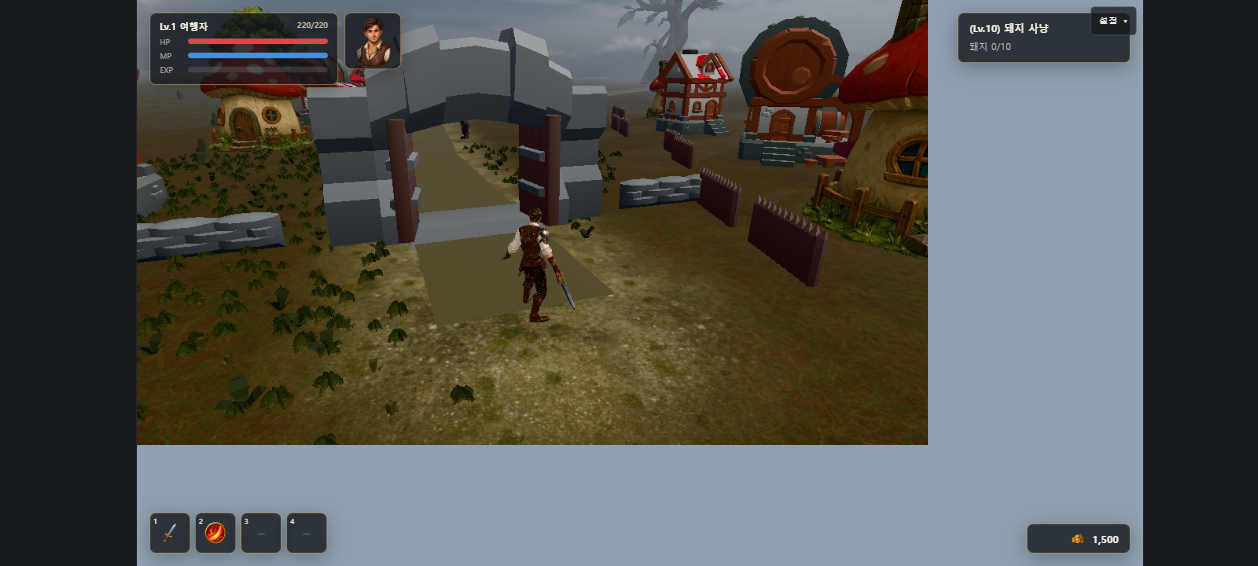
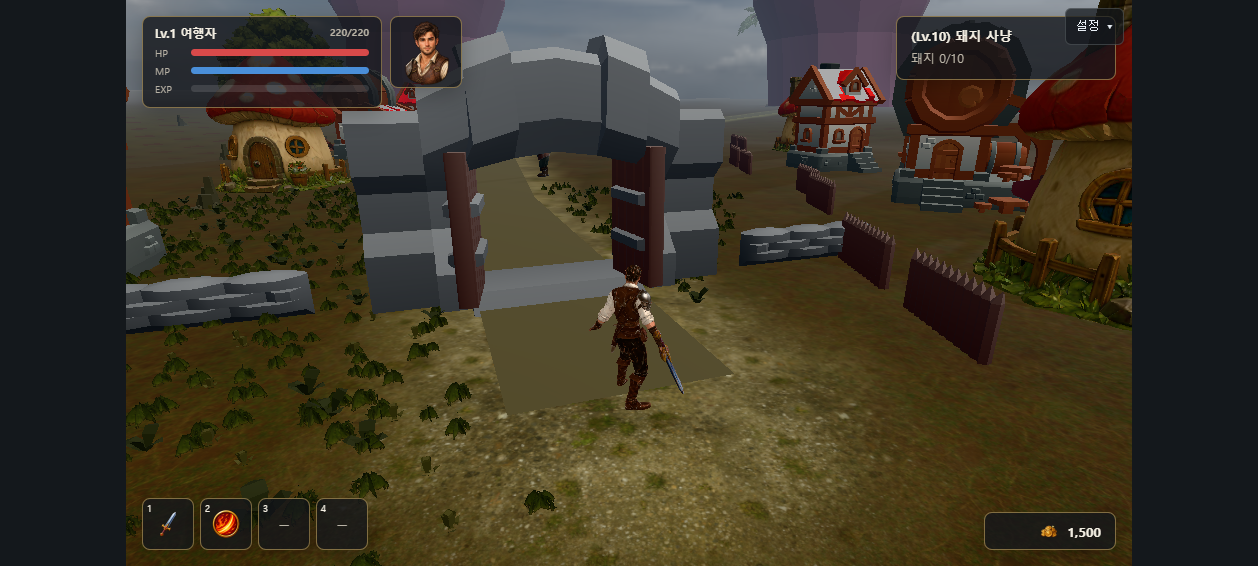
스테이지 창 맞춤: transform 대신 크기 클램프(useStageFit) — 캔버스/HUD 이중 축소 해소, 하단 스킬바·메소 표시 확인 (master)

diff --git a/src/App.tsx b/src/App.tsx
@@ -64,17 +64,20 @@ function VistaCamera({ id }: { id: string }) {
  * 매 프레임 depth 검증 에러·검은 프레임(R77-A 결함). 구 빌드는 로딩 ready 뒤에 Canvas 가 마운트되는 타이밍이라 1회였다.
  * 상세: Docs/decisions/webgpu-blackframe-r86.md
  */
-/** 창 안에 스테이지가 들어가도록 축소 배율(≤1). shot 모드·서버 렌더에서는 1. */
-function useStageFit(width: number, height: number, disabled: boolean): number {
-  const [fit, setFit] = useState(1)
+/** 창이 스테이지보다 작으면 스테이지 크기를 창에 맞춰 줄인다(확대 없음). CSS transform 은 R3F 리사이즈 측정과 이중 적용돼 쓰지 않는다. */
+function useStageFit(width: number, height: number, disabled: boolean): { width: number; height: number } {
+  const [size, setSize] = useState({ width, height })
   useEffect(() => {
-    if (disabled) { setFit(1); return }
-    const update = () => setFit(Math.min(1, window.innerWidth / width, window.innerHeight / height))
+    if (disabled) { setSize({ width, height }); return }
+    const update = () => {
+      const k = Math.min(1, window.innerWidth / width, window.innerHeight / height)
+      setSize({ width: Math.floor(width * k), height: Math.floor(height * k) })
+    }
     update()
     window.addEventListener('resize', update)
     return () => window.removeEventListener('resize', update)
   }, [width, height, disabled])
-  return fit
+  return size
 }
 
 const Stage = memo(function Stage({ width, height, shot, hideHero, dprCap }: { width: number; height: number; shot: string | null; hideHero: boolean; dprCap: number }) {
@@ -124,7 +127,7 @@ export default function App() {
   const width = Math.ceil(quality.renderResolution.width / quality.dprCap)
   const height = Math.ceil(quality.renderResolution.height / quality.dprCap)
   // 스테이지는 고정 픽셀이라 창이 작으면 하단 HUD(스킬바)가 잘렸다(2026-08-27 영하님 피드백). 창에 맞춰 축소만 한다(확대 없음, 캡처 규약 불변).
-  const fit = useStageFit(width, height, shot !== null)
+  const stageSize = useStageFit(width, height, shot !== null)
 
   useEffect(() => {
     const onErr = (e: ErrorEvent) => pushError(String(e.message))
@@ -141,8 +144,8 @@ export default function App() {
   }, [pushError, shot])
 
   return (
-    <div className="stage" style={{ width, height, transform: fit === 1 ? undefined : `scale(${fit})`, transformOrigin: 'top center' }}>
-      <Stage width={width} height={height} shot={shot} hideHero={hideHero} dprCap={quality.dprCap} />
+    <div className="stage" style={{ width: stageSize.width, height: stageSize.height }}>
+      <Stage width={stageSize.width} height={stageSize.height} shot={shot} hideHero={hideHero} dprCap={quality.dprCap} />
       {shouldShowRuntimeHud(location.search, GAME_INPUT_ENABLED) ? <RuntimeHud /> : null}
       {!shot && GAME_INPUT_ENABLED ? <Suspense fallback={null}><GameOverlay loading={loading} preset={preset} /></Suspense> : null}
       {/* M4-02·M4-05 (R30-A) — 시작 안내 5초·설정. LoadingScreen 은 M4-10 로더 뒤에 마운트한다. shot 모드에는 불필요. */}
